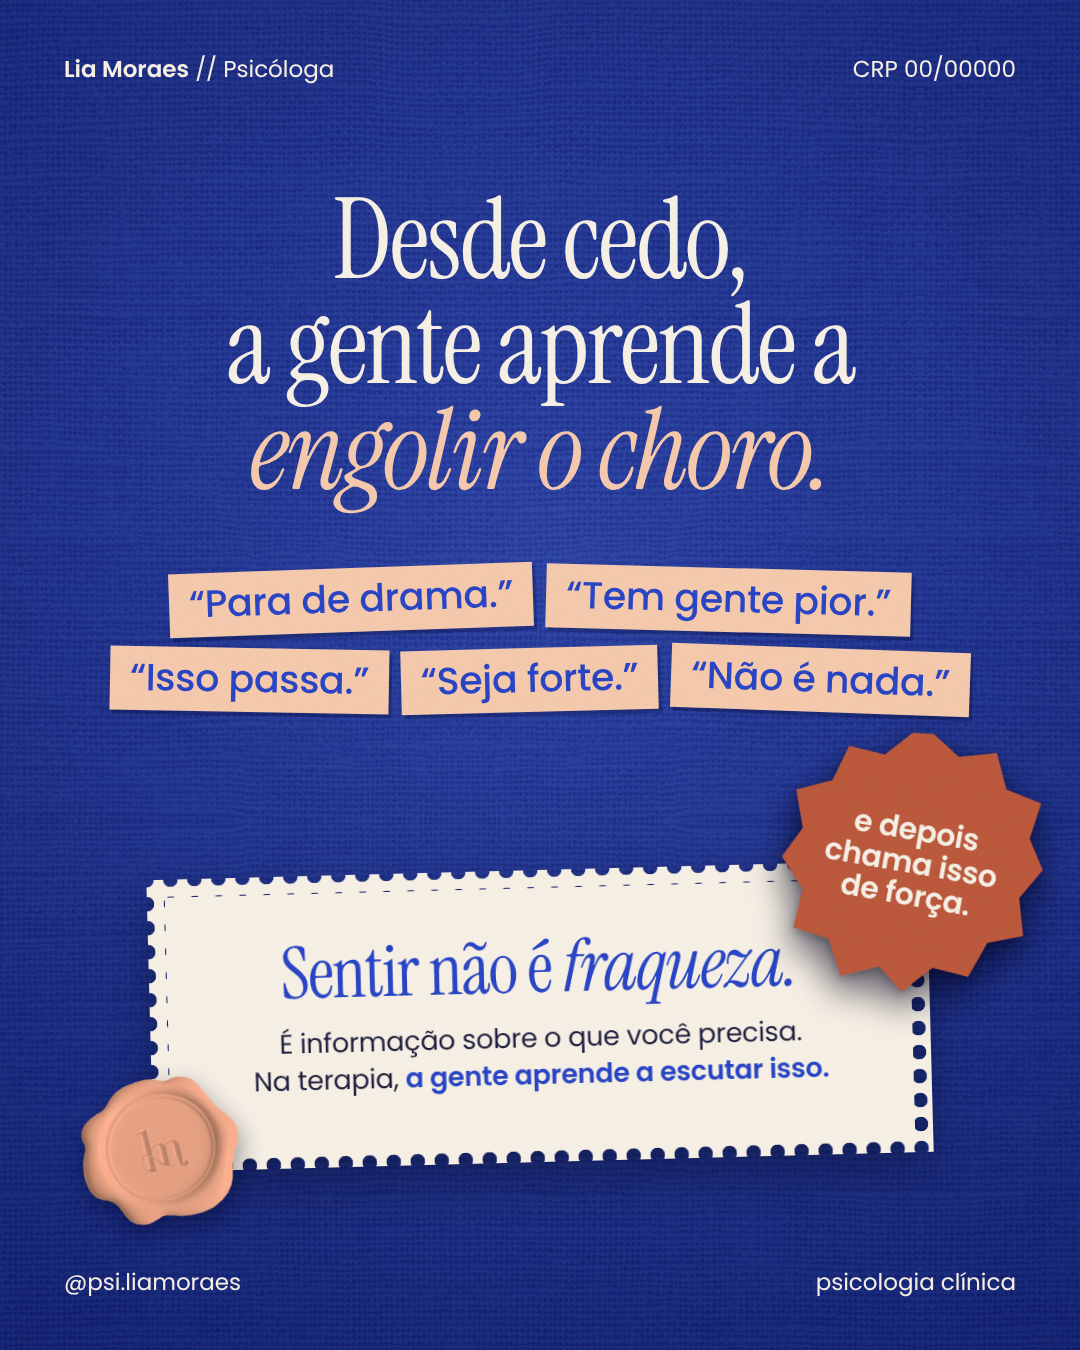
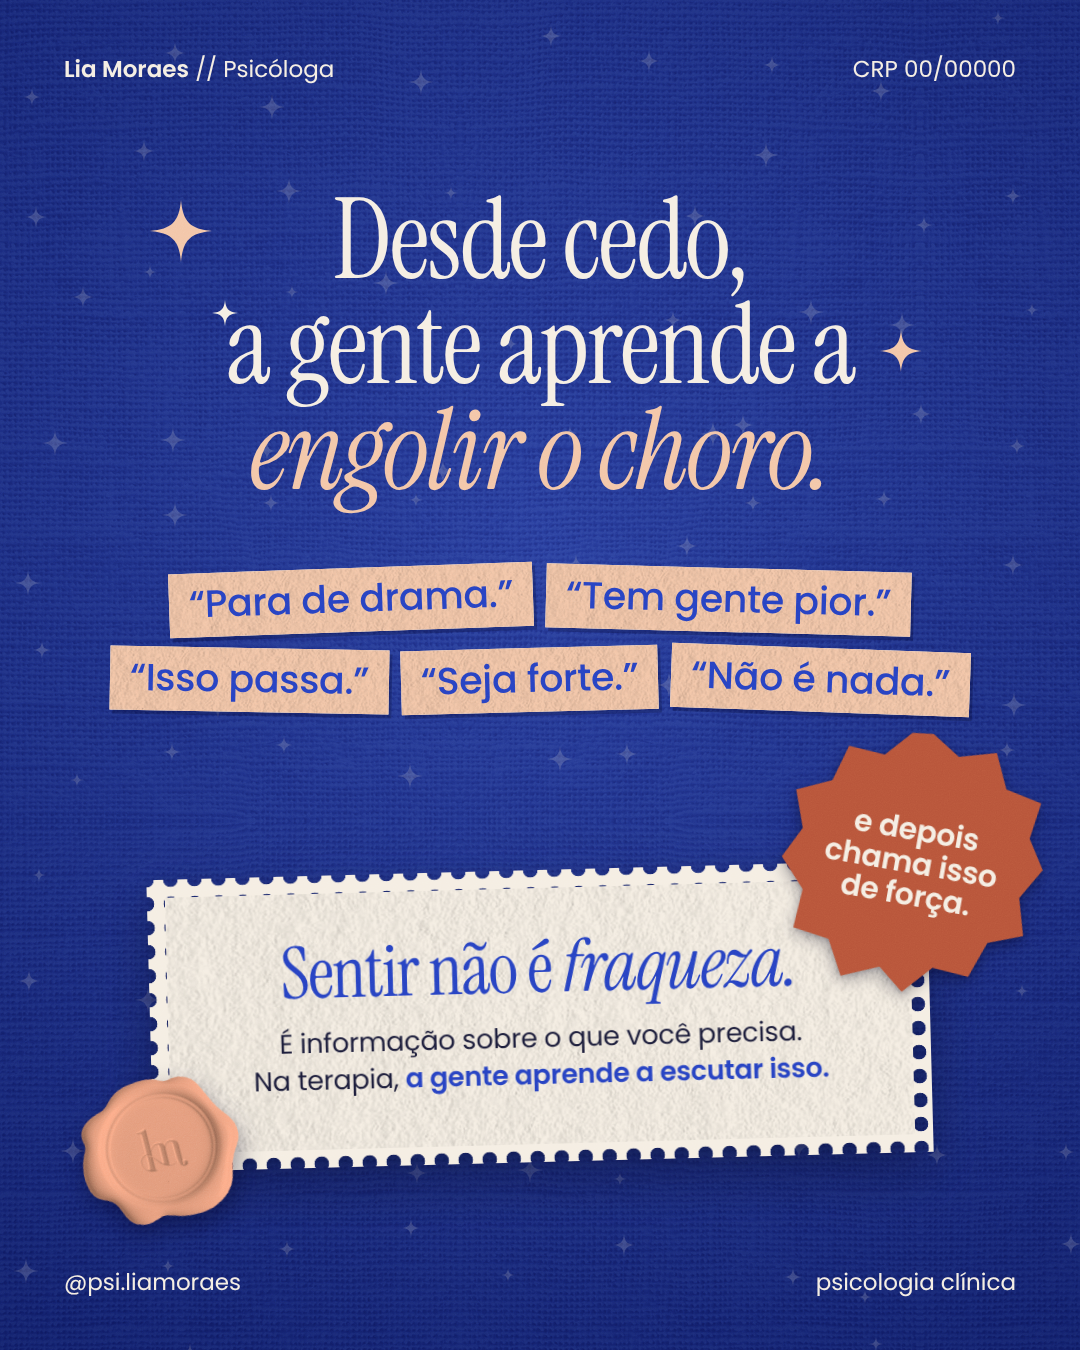
Lia Moraes: post 6 com estrelinhas, textura de papel e sombra mais suave
Claude-Session: https://claude.ai/code/session_01CmCiK8Gv7bd1khyaxwEQLc

diff --git a/psicologa-lia-moraes/projeto/posts/posts-v5.html b/psicologa-lia-moraes/projeto/posts/posts-v5.html
@@ -74,7 +74,7 @@ body{background:#777;padding:20px;display:flex;gap:20px;flex-wrap:wrap}
 .sombra{filter:drop-shadow(0 22px 26px rgba(10,15,50,.38)) drop-shadow(0 4px 6px rgba(10,15,50,.25))}
 .selo-borda{background:radial-gradient(circle at 12px 12px,transparent 7px,var(--bg) 7.6px) -12px -12px/24px 24px;padding:18px}
 .selo-borda>div{background:var(--bg)}
-.etq{display:inline-block;background:var(--p);color:var(--c);font:500 38px/1 Poppins;letter-spacing:-.01em;padding:12px 20px 14px;margin:8px 6px;box-shadow:3px 4px 0 rgba(0,0,30,.25)}
+.etq{display:inline-block;background:var(--p) url(../fotos-pinterest/colagem/papel-fibra.jpg) center/600px;background-blend-mode:multiply;color:var(--c);font:500 38px/1 Poppins;letter-spacing:-.01em;padding:12px 20px 14px;margin:8px 6px;box-shadow:3px 4px 0 rgba(0,0,30,.25)}
 .flor-escalope{position:absolute;display:grid;place-items:center;text-align:center;background:var(--creme);color:var(--c);
   clip-path:polygon(50% 0%,61% 7%,75% 3%,81% 16%,95% 19%,93% 33%,100% 44%,93% 56%,97% 70%,84% 75%,79% 89%,65% 88%,55% 99%,45% 91%,31% 97%,24% 84%,10% 82%,11% 67%,1% 56%,7% 44%,2% 30%,15% 24%,19% 10%,33% 11%,42% 1%)}
 </style>
@@ -201,6 +201,12 @@ body{background:#777;padding:20px;display:flex;gap:20px;flex-wrap:wrap}
 <div class="art" id="p6" style="background:#1D3398;color:var(--creme)">
   <div class="linho" style="mix-blend-mode:soft-light"></div>
   <div class="abs" style="inset:0;background:radial-gradient(90% 70% at 50% 40%,rgba(255,255,255,.05),rgba(0,0,30,.35))"></div>
+  <svg class="abs" viewBox="0 0 1080 1350" width="1080" height="1350" style="left:0;top:0;opacity:.16" fill="#F5EEE3"><path transform="translate(23 88) scale(0.18)" d="M50 0C53 35 65 47 100 50 65 53 53 65 50 100 47 65 35 53 0 50 35 47 47 35 50 0Z"/><path transform="translate(164 42) scale(0.22)" d="M50 0C53 35 65 47 100 50 65 53 53 65 50 100 47 65 35 53 0 50 35 47 47 35 50 0Z"/><path transform="translate(259 94) scale(0.26)" d="M50 0C53 35 65 47 100 50 65 53 53 65 50 100 47 65 35 53 0 50 35 47 47 35 50 0Z"/><path transform="translate(408 69) scale(0.26)" d="M50 0C53 35 65 47 100 50 65 53 53 65 50 100 47 65 35 53 0 50 35 47 47 35 50 0Z"/><path transform="translate(540 25) scale(0.22)" d="M50 0C53 35 65 47 100 50 65 53 53 65 50 100 47 65 35 53 0 50 35 47 47 35 50 0Z"/><path transform="translate(638 50) scale(0.22)" d="M50 0C53 35 65 47 100 50 65 53 53 65 50 100 47 65 35 53 0 50 35 47 47 35 50 0Z"/><path transform="translate(763 56) scale(0.18)" d="M50 0C53 35 65 47 100 50 65 53 53 65 50 100 47 65 35 53 0 50 35 47 47 35 50 0Z"/><path transform="translate(870 80) scale(0.22)" d="M50 0C53 35 65 47 100 50 65 53 53 65 50 100 47 65 35 53 0 50 35 47 47 35 50 0Z"/><path transform="translate(991 11) scale(0.14)" d="M50 0C53 35 65 47 100 50 65 53 53 65 50 100 47 65 35 53 0 50 35 47 47 35 50 0Z"/><path transform="translate(25 206) scale(0.22)" d="M50 0C53 35 65 47 100 50 65 53 53 65 50 100 47 65 35 53 0 50 35 47 47 35 50 0Z"/><path transform="translate(133 140) scale(0.22)" d="M50 0C53 35 65 47 100 50 65 53 53 65 50 100 47 65 35 53 0 50 35 47 47 35 50 0Z"/><path transform="translate(276 178) scale(0.26)" d="M50 0C53 35 65 47 100 50 65 53 53 65 50 100 47 65 35 53 0 50 35 47 47 35 50 0Z"/><path transform="translate(444 186) scale(0.14)" d="M50 0C53 35 65 47 100 50 65 53 53 65 50 100 47 65 35 53 0 50 35 47 47 35 50 0Z"/><path transform="translate(572 217) scale(0.14)" d="M50 0C53 35 65 47 100 50 65 53 53 65 50 100 47 65 35 53 0 50 35 47 47 35 50 0Z"/><path transform="translate(684 205) scale(0.22)" d="M50 0C53 35 65 47 100 50 65 53 53 65 50 100 47 65 35 53 0 50 35 47 47 35 50 0Z"/><path transform="translate(753 142) scale(0.26)" d="M50 0C53 35 65 47 100 50 65 53 53 65 50 100 47 65 35 53 0 50 35 47 47 35 50 0Z"/><path transform="translate(915 216) scale(0.18)" d="M50 0C53 35 65 47 100 50 65 53 53 65 50 100 47 65 35 53 0 50 35 47 47 35 50 0Z"/><path transform="translate(1004 187) scale(0.18)" d="M50 0C53 35 65 47 100 50 65 53 53 65 50 100 47 65 35 53 0 50 35 47 47 35 50 0Z"/><path transform="translate(72 286) scale(0.22)" d="M50 0C53 35 65 47 100 50 65 53 53 65 50 100 47 65 35 53 0 50 35 47 47 35 50 0Z"/><path transform="translate(143 265) scale(0.14)" d="M50 0C53 35 65 47 100 50 65 53 53 65 50 100 47 65 35 53 0 50 35 47 47 35 50 0Z"/><path transform="translate(285 285) scale(0.14)" d="M50 0C53 35 65 47 100 50 65 53 53 65 50 100 47 65 35 53 0 50 35 47 47 35 50 0Z"/><path transform="translate(373 270) scale(0.26)" d="M50 0C53 35 65 47 100 50 65 53 53 65 50 100 47 65 35 53 0 50 35 47 47 35 50 0Z"/><path transform="translate(504 337) scale(0.14)" d="M50 0C53 35 65 47 100 50 65 53 53 65 50 100 47 65 35 53 0 50 35 47 47 35 50 0Z"/><path transform="translate(664 311) scale(0.18)" d="M50 0C53 35 65 47 100 50 65 53 53 65 50 100 47 65 35 53 0 50 35 47 47 35 50 0Z"/><path transform="translate(798 299) scale(0.26)" d="M50 0C53 35 65 47 100 50 65 53 53 65 50 100 47 65 35 53 0 50 35 47 47 35 50 0Z"/><path transform="translate(889 312) scale(0.26)" d="M50 0C53 35 65 47 100 50 65 53 53 65 50 100 47 65 35 53 0 50 35 47 47 35 50 0Z"/><path transform="translate(1025 303) scale(0.14)" d="M50 0C53 35 65 47 100 50 65 53 53 65 50 100 47 65 35 53 0 50 35 47 47 35 50 0Z"/><path transform="translate(42 430) scale(0.26)" d="M50 0C53 35 65 47 100 50 65 53 53 65 50 100 47 65 35 53 0 50 35 47 47 35 50 0Z"/><path transform="translate(160 427) scale(0.26)" d="M50 0C53 35 65 47 100 50 65 53 53 65 50 100 47 65 35 53 0 50 35 47 47 35 50 0Z"/><path transform="translate(258 442) scale(0.18)" d="M50 0C53 35 65 47 100 50 65 53 53 65 50 100 47 65 35 53 0 50 35 47 47 35 50 0Z"/><path transform="translate(432 460) scale(0.22)" d="M50 0C53 35 65 47 100 50 65 53 53 65 50 100 47 65 35 53 0 50 35 47 47 35 50 0Z"/><path transform="translate(563 426) scale(0.14)" d="M50 0C53 35 65 47 100 50 65 53 53 65 50 100 47 65 35 53 0 50 35 47 47 35 50 0Z"/><path transform="translate(700 421) scale(0.26)" d="M50 0C53 35 65 47 100 50 65 53 53 65 50 100 47 65 35 53 0 50 35 47 47 35 50 0Z"/><path transform="translate(732 414) scale(0.22)" d="M50 0C53 35 65 47 100 50 65 53 53 65 50 100 47 65 35 53 0 50 35 47 47 35 50 0Z"/><path transform="translate(910 403) scale(0.22)" d="M50 0C53 35 65 47 100 50 65 53 53 65 50 100 47 65 35 53 0 50 35 47 47 35 50 0Z"/><path transform="translate(1008 437) scale(0.18)" d="M50 0C53 35 65 47 100 50 65 53 53 65 50 100 47 65 35 53 0 50 35 47 47 35 50 0Z"/><path transform="translate(15 570) scale(0.26)" d="M50 0C53 35 65 47 100 50 65 53 53 65 50 100 47 65 35 53 0 50 35 47 47 35 50 0Z"/><path transform="translate(162 502) scale(0.26)" d="M50 0C53 35 65 47 100 50 65 53 53 65 50 100 47 65 35 53 0 50 35 47 47 35 50 0Z"/><path transform="translate(262 494) scale(0.18)" d="M50 0C53 35 65 47 100 50 65 53 53 65 50 100 47 65 35 53 0 50 35 47 47 35 50 0Z"/><path transform="translate(409 493) scale(0.14)" d="M50 0C53 35 65 47 100 50 65 53 53 65 50 100 47 65 35 53 0 50 35 47 47 35 50 0Z"/><path transform="translate(565 554) scale(0.22)" d="M50 0C53 35 65 47 100 50 65 53 53 65 50 100 47 65 35 53 0 50 35 47 47 35 50 0Z"/><path transform="translate(676 535) scale(0.22)" d="M50 0C53 35 65 47 100 50 65 53 53 65 50 100 47 65 35 53 0 50 35 47 47 35 50 0Z"/><path transform="translate(744 494) scale(0.18)" d="M50 0C53 35 65 47 100 50 65 53 53 65 50 100 47 65 35 53 0 50 35 47 47 35 50 0Z"/><path transform="translate(875 490) scale(0.18)" d="M50 0C53 35 65 47 100 50 65 53 53 65 50 100 47 65 35 53 0 50 35 47 47 35 50 0Z"/><path transform="translate(1002 554) scale(0.22)" d="M50 0C53 35 65 47 100 50 65 53 53 65 50 100 47 65 35 53 0 50 35 47 47 35 50 0Z"/><path transform="translate(33 641) scale(0.18)" d="M50 0C53 35 65 47 100 50 65 53 53 65 50 100 47 65 35 53 0 50 35 47 47 35 50 0Z"/><path transform="translate(207 697) scale(0.22)" d="M50 0C53 35 65 47 100 50 65 53 53 65 50 100 47 65 35 53 0 50 35 47 47 35 50 0Z"/><path transform="translate(287 657) scale(0.14)" d="M50 0C53 35 65 47 100 50 65 53 53 65 50 100 47 65 35 53 0 50 35 47 47 35 50 0Z"/><path transform="translate(441 686) scale(0.18)" d="M50 0C53 35 65 47 100 50 65 53 53 65 50 100 47 65 35 53 0 50 35 47 47 35 50 0Z"/><path transform="translate(555 692) scale(0.18)" d="M50 0C53 35 65 47 100 50 65 53 53 65 50 100 47 65 35 53 0 50 35 47 47 35 50 0Z"/><path transform="translate(656 672) scale(0.26)" d="M50 0C53 35 65 47 100 50 65 53 53 65 50 100 47 65 35 53 0 50 35 47 47 35 50 0Z"/><path transform="translate(761 659) scale(0.22)" d="M50 0C53 35 65 47 100 50 65 53 53 65 50 100 47 65 35 53 0 50 35 47 47 35 50 0Z"/><path transform="translate(912 688) scale(0.14)" d="M50 0C53 35 65 47 100 50 65 53 53 65 50 100 47 65 35 53 0 50 35 47 47 35 50 0Z"/><path transform="translate(1001 692) scale(0.26)" d="M50 0C53 35 65 47 100 50 65 53 53 65 50 100 47 65 35 53 0 50 35 47 47 35 50 0Z"/><path transform="translate(70 773) scale(0.14)" d="M50 0C53 35 65 47 100 50 65 53 53 65 50 100 47 65 35 53 0 50 35 47 47 35 50 0Z"/><path transform="translate(163 743) scale(0.18)" d="M50 0C53 35 65 47 100 50 65 53 53 65 50 100 47 65 35 53 0 50 35 47 47 35 50 0Z"/><path transform="translate(275 736) scale(0.18)" d="M50 0C53 35 65 47 100 50 65 53 53 65 50 100 47 65 35 53 0 50 35 47 47 35 50 0Z"/><path transform="translate(397 763) scale(0.26)" d="M50 0C53 35 65 47 100 50 65 53 53 65 50 100 47 65 35 53 0 50 35 47 47 35 50 0Z"/><path transform="translate(547 746) scale(0.26)" d="M50 0C53 35 65 47 100 50 65 53 53 65 50 100 47 65 35 53 0 50 35 47 47 35 50 0Z"/><path transform="translate(616 743) scale(0.22)" d="M50 0C53 35 65 47 100 50 65 53 53 65 50 100 47 65 35 53 0 50 35 47 47 35 50 0Z"/><path transform="translate(820 777) scale(0.26)" d="M50 0C53 35 65 47 100 50 65 53 53 65 50 100 47 65 35 53 0 50 35 47 47 35 50 0Z"/><path transform="translate(903 746) scale(0.26)" d="M50 0C53 35 65 47 100 50 65 53 53 65 50 100 47 65 35 53 0 50 35 47 47 35 50 0Z"/><path transform="translate(998 741) scale(0.18)" d="M50 0C53 35 65 47 100 50 65 53 53 65 50 100 47 65 35 53 0 50 35 47 47 35 50 0Z"/><path transform="translate(32 868) scale(0.14)" d="M50 0C53 35 65 47 100 50 65 53 53 65 50 100 47 65 35 53 0 50 35 47 47 35 50 0Z"/><path transform="translate(215 878) scale(0.22)" d="M50 0C53 35 65 47 100 50 65 53 53 65 50 100 47 65 35 53 0 50 35 47 47 35 50 0Z"/><path transform="translate(326 934) scale(0.14)" d="M50 0C53 35 65 47 100 50 65 53 53 65 50 100 47 65 35 53 0 50 35 47 47 35 50 0Z"/><path transform="translate(443 902) scale(0.26)" d="M50 0C53 35 65 47 100 50 65 53 53 65 50 100 47 65 35 53 0 50 35 47 47 35 50 0Z"/><path transform="translate(524 910) scale(0.22)" d="M50 0C53 35 65 47 100 50 65 53 53 65 50 100 47 65 35 53 0 50 35 47 47 35 50 0Z"/><path transform="translate(619 896) scale(0.14)" d="M50 0C53 35 65 47 100 50 65 53 53 65 50 100 47 65 35 53 0 50 35 47 47 35 50 0Z"/><path transform="translate(817 932) scale(0.14)" d="M50 0C53 35 65 47 100 50 65 53 53 65 50 100 47 65 35 53 0 50 35 47 47 35 50 0Z"/><path transform="translate(858 904) scale(0.14)" d="M50 0C53 35 65 47 100 50 65 53 53 65 50 100 47 65 35 53 0 50 35 47 47 35 50 0Z"/><path transform="translate(976 932) scale(0.18)" d="M50 0C53 35 65 47 100 50 65 53 53 65 50 100 47 65 35 53 0 50 35 47 47 35 50 0Z"/><path transform="translate(18 970) scale(0.22)" d="M50 0C53 35 65 47 100 50 65 53 53 65 50 100 47 65 35 53 0 50 35 47 47 35 50 0Z"/><path transform="translate(135 987) scale(0.26)" d="M50 0C53 35 65 47 100 50 65 53 53 65 50 100 47 65 35 53 0 50 35 47 47 35 50 0Z"/><path transform="translate(325 989) scale(0.14)" d="M50 0C53 35 65 47 100 50 65 53 53 65 50 100 47 65 35 53 0 50 35 47 47 35 50 0Z"/><path transform="translate(427 1029) scale(0.26)" d="M50 0C53 35 65 47 100 50 65 53 53 65 50 100 47 65 35 53 0 50 35 47 47 35 50 0Z"/><path transform="translate(557 972) scale(0.22)" d="M50 0C53 35 65 47 100 50 65 53 53 65 50 100 47 65 35 53 0 50 35 47 47 35 50 0Z"/><path transform="translate(620 1004) scale(0.18)" d="M50 0C53 35 65 47 100 50 65 53 53 65 50 100 47 65 35 53 0 50 35 47 47 35 50 0Z"/><path transform="translate(766 1057) scale(0.14)" d="M50 0C53 35 65 47 100 50 65 53 53 65 50 100 47 65 35 53 0 50 35 47 47 35 50 0Z"/><path transform="translate(920 1000) scale(0.14)" d="M50 0C53 35 65 47 100 50 65 53 53 65 50 100 47 65 35 53 0 50 35 47 47 35 50 0Z"/><path transform="translate(1015 984) scale(0.14)" d="M50 0C53 35 65 47 100 50 65 53 53 65 50 100 47 65 35 53 0 50 35 47 47 35 50 0Z"/><path transform="translate(60 1138) scale(0.26)" d="M50 0C53 35 65 47 100 50 65 53 53 65 50 100 47 65 35 53 0 50 35 47 47 35 50 0Z"/><path transform="translate(167 1134) scale(0.22)" d="M50 0C53 35 65 47 100 50 65 53 53 65 50 100 47 65 35 53 0 50 35 47 47 35 50 0Z"/><path transform="translate(253 1122) scale(0.18)" d="M50 0C53 35 65 47 100 50 65 53 53 65 50 100 47 65 35 53 0 50 35 47 47 35 50 0Z"/><path transform="translate(406 1162) scale(0.22)" d="M50 0C53 35 65 47 100 50 65 53 53 65 50 100 47 65 35 53 0 50 35 47 47 35 50 0Z"/><path transform="translate(517 1157) scale(0.26)" d="M50 0C53 35 65 47 100 50 65 53 53 65 50 100 47 65 35 53 0 50 35 47 47 35 50 0Z"/><path transform="translate(613 1172) scale(0.14)" d="M50 0C53 35 65 47 100 50 65 53 53 65 50 100 47 65 35 53 0 50 35 47 47 35 50 0Z"/><path transform="translate(786 1133) scale(0.26)" d="M50 0C53 35 65 47 100 50 65 53 53 65 50 100 47 65 35 53 0 50 35 47 47 35 50 0Z"/><path transform="translate(926 1144) scale(0.22)" d="M50 0C53 35 65 47 100 50 65 53 53 65 50 100 47 65 35 53 0 50 35 47 47 35 50 0Z"/><path transform="translate(1057 1143) scale(0.18)" d="M50 0C53 35 65 47 100 50 65 53 53 65 50 100 47 65 35 53 0 50 35 47 47 35 50 0Z"/><path transform="translate(13 1258) scale(0.26)" d="M50 0C53 35 65 47 100 50 65 53 53 65 50 100 47 65 35 53 0 50 35 47 47 35 50 0Z"/><path transform="translate(161 1259) scale(0.14)" d="M50 0C53 35 65 47 100 50 65 53 53 65 50 100 47 65 35 53 0 50 35 47 47 35 50 0Z"/><path transform="translate(278 1240) scale(0.18)" d="M50 0C53 35 65 47 100 50 65 53 53 65 50 100 47 65 35 53 0 50 35 47 47 35 50 0Z"/><path transform="translate(402 1219) scale(0.18)" d="M50 0C53 35 65 47 100 50 65 53 53 65 50 100 47 65 35 53 0 50 35 47 47 35 50 0Z"/><path transform="translate(501 1268) scale(0.14)" d="M50 0C53 35 65 47 100 50 65 53 53 65 50 100 47 65 35 53 0 50 35 47 47 35 50 0Z"/><path transform="translate(613 1234) scale(0.22)" d="M50 0C53 35 65 47 100 50 65 53 53 65 50 100 47 65 35 53 0 50 35 47 47 35 50 0Z"/><path transform="translate(784 1268) scale(0.18)" d="M50 0C53 35 65 47 100 50 65 53 53 65 50 100 47 65 35 53 0 50 35 47 47 35 50 0Z"/><path transform="translate(858 1290) scale(0.14)" d="M50 0C53 35 65 47 100 50 65 53 53 65 50 100 47 65 35 53 0 50 35 47 47 35 50 0Z"/><path transform="translate(1060 1233) scale(0.22)" d="M50 0C53 35 65 47 100 50 65 53 53 65 50 100 47 65 35 53 0 50 35 47 47 35 50 0Z"/><path transform="translate(68 1418) scale(0.18)" d="M50 0C53 35 65 47 100 50 65 53 53 65 50 100 47 65 35 53 0 50 35 47 47 35 50 0Z"/><path transform="translate(179 1343) scale(0.22)" d="M50 0C53 35 65 47 100 50 65 53 53 65 50 100 47 65 35 53 0 50 35 47 47 35 50 0Z"/><path transform="translate(310 1357) scale(0.22)" d="M50 0C53 35 65 47 100 50 65 53 53 65 50 100 47 65 35 53 0 50 35 47 47 35 50 0Z"/><path transform="translate(412 1393) scale(0.22)" d="M50 0C53 35 65 47 100 50 65 53 53 65 50 100 47 65 35 53 0 50 35 47 47 35 50 0Z"/><path transform="translate(496 1352) scale(0.26)" d="M50 0C53 35 65 47 100 50 65 53 53 65 50 100 47 65 35 53 0 50 35 47 47 35 50 0Z"/><path transform="translate(627 1365) scale(0.26)" d="M50 0C53 35 65 47 100 50 65 53 53 65 50 100 47 65 35 53 0 50 35 47 47 35 50 0Z"/><path transform="translate(769 1398) scale(0.14)" d="M50 0C53 35 65 47 100 50 65 53 53 65 50 100 47 65 35 53 0 50 35 47 47 35 50 0Z"/><path transform="translate(869 1337) scale(0.14)" d="M50 0C53 35 65 47 100 50 65 53 53 65 50 100 47 65 35 53 0 50 35 47 47 35 50 0Z"/><path transform="translate(1057 1369) scale(0.26)" d="M50 0C53 35 65 47 100 50 65 53 53 65 50 100 47 65 35 53 0 50 35 47 47 35 50 0Z"/></svg>
+  <svg class="abs" viewBox="0 0 1080 1350" width="1080" height="1350" style="left:0;top:0;z-index:2" fill="#F3C6A8">
+    <path transform="translate(150 200) scale(.62)" d="M50 0C53 35 65 47 100 50 65 53 53 65 50 100 47 65 35 53 0 50 35 47 47 35 50 0Z"/>
+    <path transform="translate(880 330) scale(.42)" d="M50 0C53 35 65 47 100 50 65 53 53 65 50 100 47 65 35 53 0 50 35 47 47 35 50 0Z"/>
+    <path transform="translate(212 300) scale(.26)" d="M50 0C53 35 65 47 100 50 65 53 53 65 50 100 47 65 35 53 0 50 35 47 47 35 50 0Z" fill="#F5EEE3"/>
+  </svg>
   <div class="cab topo"><span><b>Lia Moraes</b> // Psicóloga</span><span>CRP 00/00000</span></div>
   <div class="abs" id="col6" style="left:60px;right:60px;top:0;bottom:0;display:flex;flex-direction:column;align-items:center;justify-content:center;text-align:center">
     <div class="is" style="font-size:112px;line-height:.94;width:900px">Desde cedo,<br>a gente aprende a<br><i style="color:var(--p)">engolir o choro.</i></div>
@@ -210,12 +216,12 @@ body{background:#777;padding:20px;display:flex;gap:20px;flex-wrap:wrap}
     </div>
     <div style="position:relative;margin-top:150px">
       <div class="selo-borda sombra" style="width:780px;--bg:#F5EEE3;transform:rotate(-1.5deg)">
-        <div style="padding:46px 56px 50px;color:var(--c)">
+        <div style="position:relative;padding:46px 56px 50px;color:var(--c);background:#F5EEE3 url(../fotos-pinterest/colagem/papel-fibra.jpg) center/cover;background-blend-mode:multiply">
           <div class="is" style="font-size:72px;line-height:.95">Sentir não é <i>fraqueza.</i></div>
           <div class="js" style="font-size:27px;line-height:1.36;margin-top:18px;color:var(--tinta)">É informação sobre o que você precisa.<br>Na terapia, <b style="color:var(--c)">a gente aprende a escutar isso.</b></div>
         </div>
       </div>
-      <div class="abs" style="right:-112px;top:-138px;width:262px;height:262px;transform:rotate(10deg);filter:drop-shadow(0 16px 18px rgba(0,0,25,.55)) drop-shadow(0 4px 5px rgba(0,0,25,.35));z-index:3"><div class="flor-escalope" style="inset:0;background:#B8553A;color:#F5EEE3"><div class="js" style="font-size:30px;line-height:1.08;padding:0 38px"><b>e depois chama isso de força.</b></div></div></div>
+      <div class="abs" style="right:-112px;top:-138px;width:262px;height:262px;transform:rotate(10deg);filter:drop-shadow(0 6px 8px rgba(0,0,25,.28)) drop-shadow(0 2px 2px rgba(0,0,25,.18));z-index:3"><div class="flor-escalope" style="inset:0;background:#B8553A;color:#F5EEE3"><div class="js" style="font-size:30px;line-height:1.08;padding:0 38px"><b>e depois chama isso de força.</b></div></div></div>
       <img class="abs" src="../fotos-pinterest/colagem/lacre-pessego.png" style="left:-70px;bottom:-60px;width:160px;transform:rotate(-14deg);filter:drop-shadow(0 10px 12px rgba(0,0,30,.4))">
     </div>
   </div>
